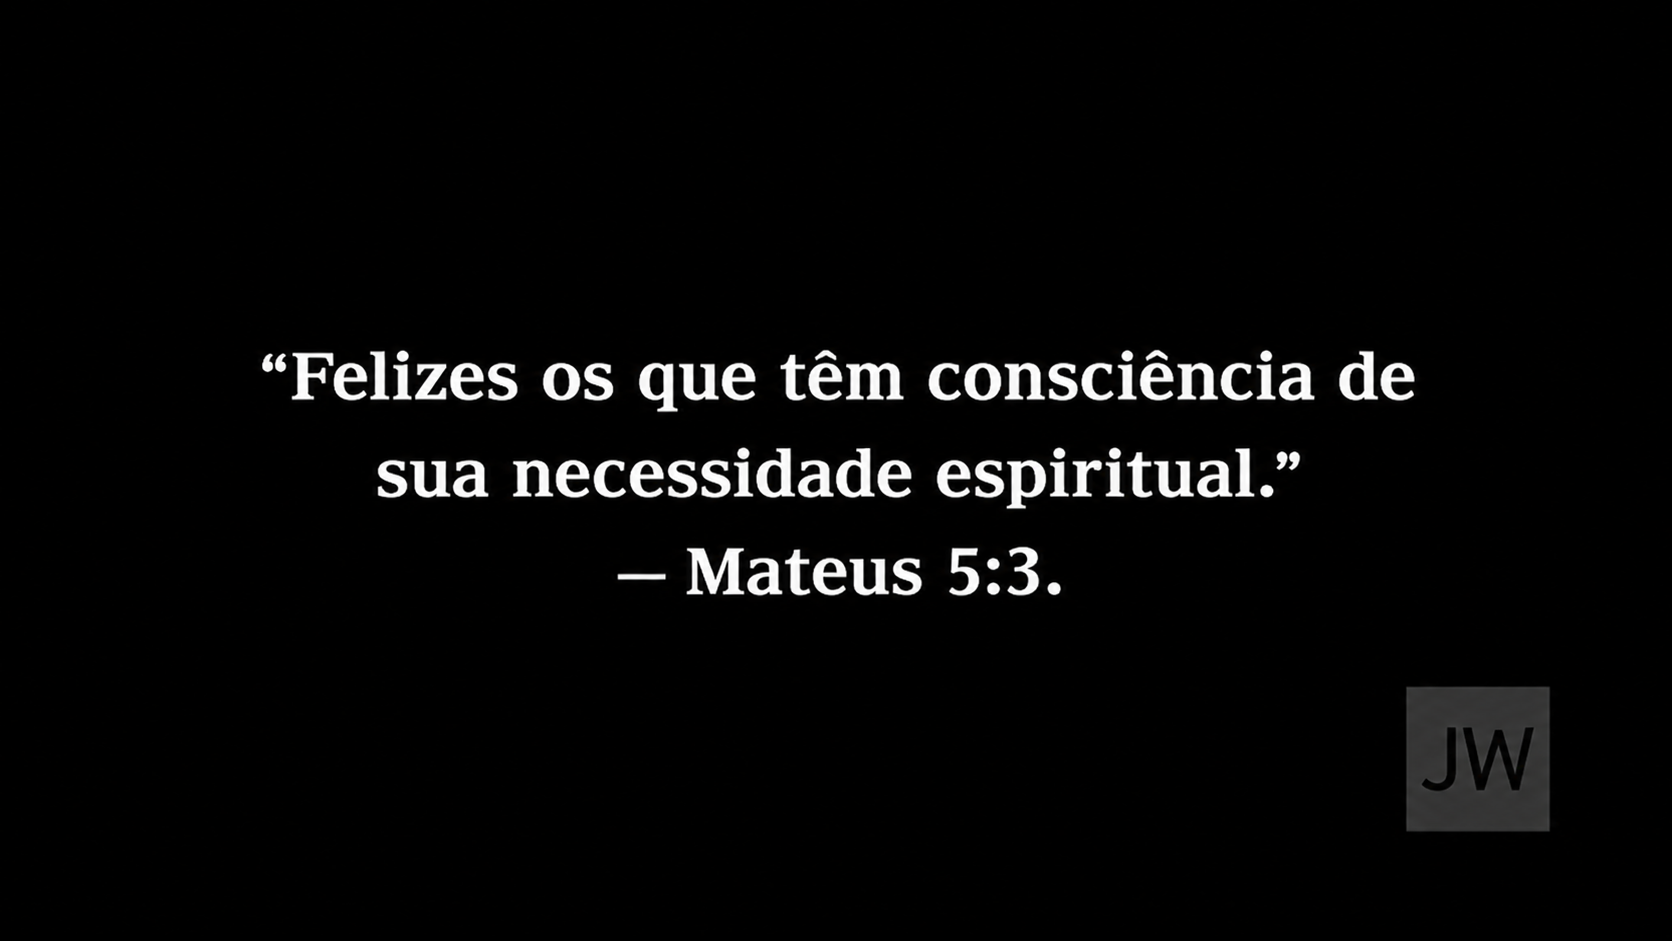
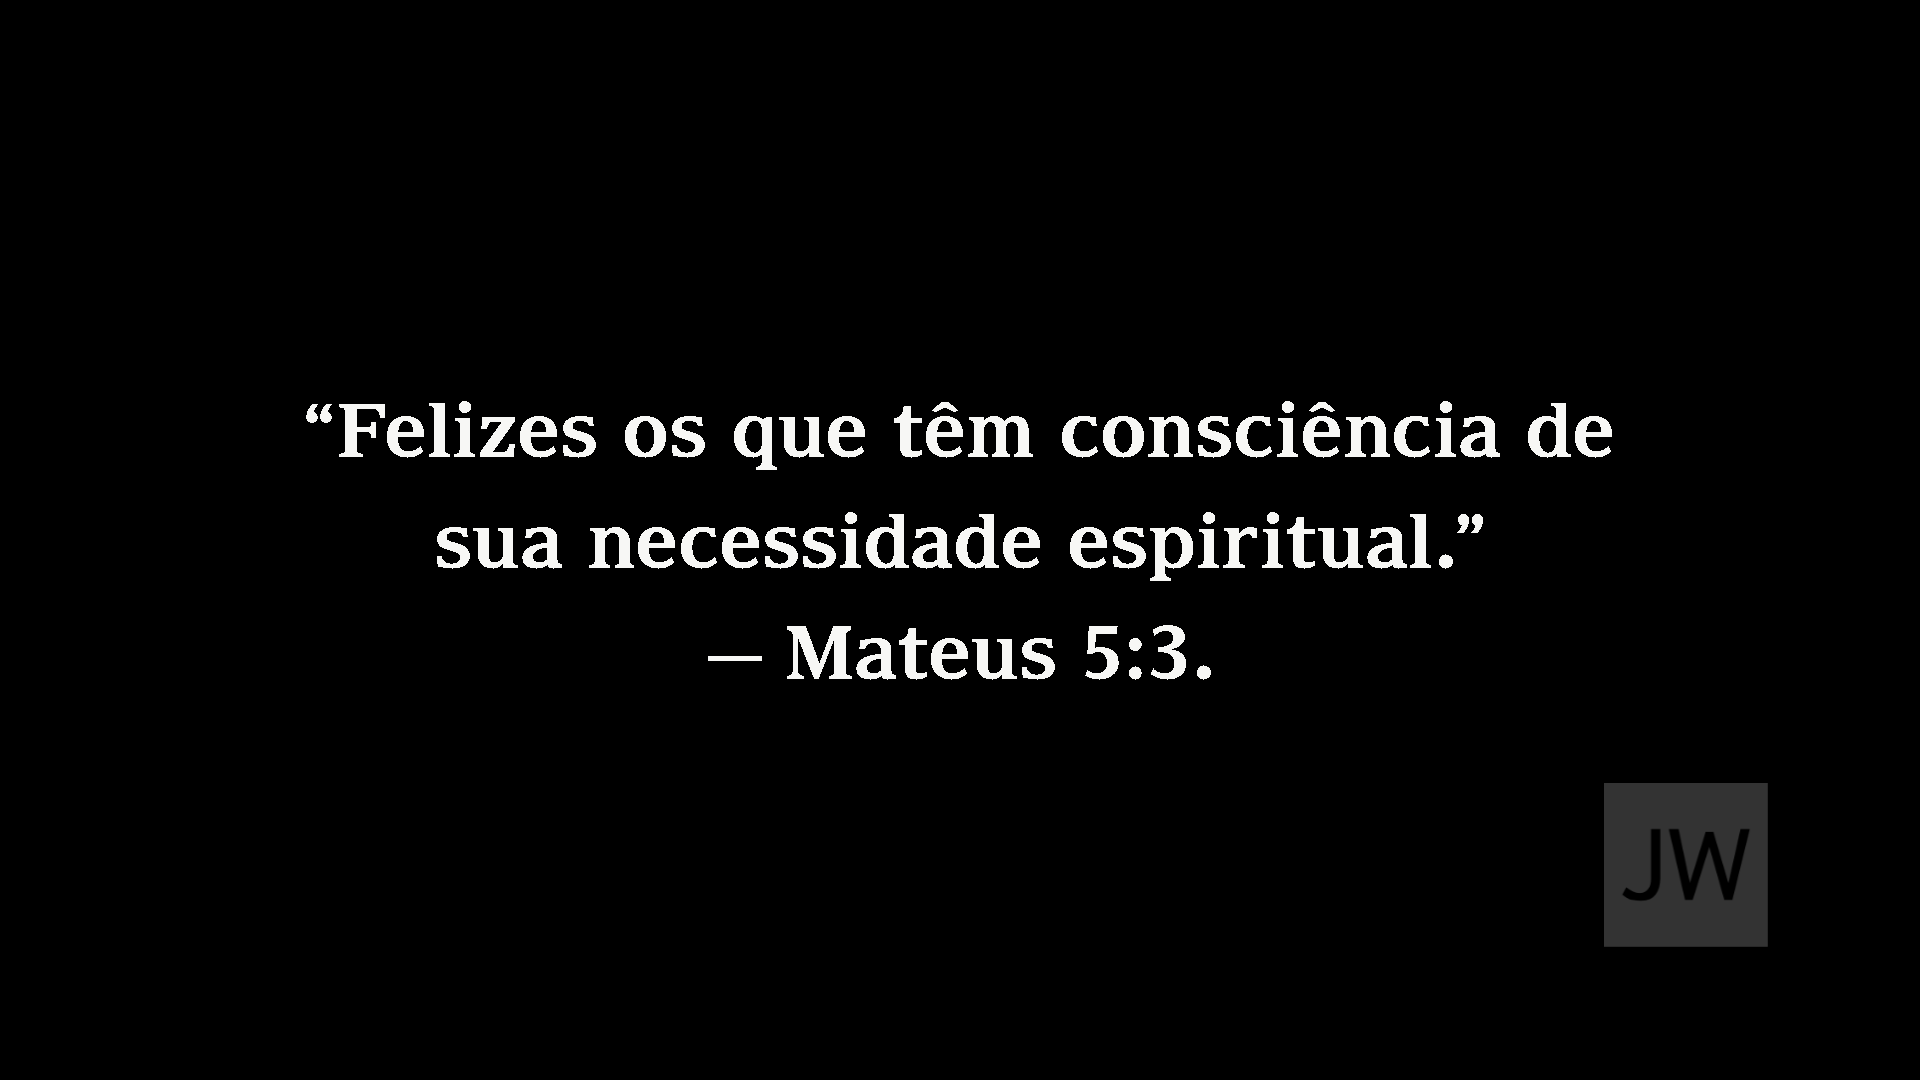
fix: improve timer stop behavior and display overlay handling

diff --git a/src-tauri/src/lib.rs b/src-tauri/src/lib.rs
@@ -1219,7 +1219,6 @@ async fn get_operator_message(state: tauri::State<'_, SharedState>) -> Result<St
 // FUNÇÕES DE SISTEMA
 
 async fn switch_to_jw_library_internal(app_handle: &tauri::AppHandle) -> Result<(), String> {
-    // Só esconde a janela display se o cronômetro NÃO estiver rodando
     let countdown_running = {
         if let Some(state) = app_handle.try_state::<SharedState>() {
             let state = state.read().await;
@@ -1231,7 +1230,7 @@ async fn switch_to_jw_library_internal(app_handle: &tauri::AppHandle) -> Result<
     
     if !countdown_running {
         if let Some(w) = app_handle.get_webview_window("display") {
-            w.set_always_on_top(false).ok();
+            // w.set_always_on_top(false).ok();
             w.hide().ok();
         }
         
@@ -1241,12 +1240,13 @@ async fn switch_to_jw_library_internal(app_handle: &tauri::AppHandle) -> Result<
                 "$wshell.AppActivate('JW Library');"
             ])
             .spawn().ok();
+        
+        app_handle.emit("switch-app", "jw").ok(); // ✅ Só emite "jw" se NÃO tem cronômetro
     } else {
-        // Se o cronômetro está rodando, mostra a janela display em vez de esconder
         show_display_window_internal(app_handle).await.ok();
+        app_handle.emit("switch-app", "sistema").ok(); // ✅ Emite "sistema" se tem cronômetro
     }
     
-    app_handle.emit("switch-app", "jw").ok();
     Ok(())
 }
 
@@ -1705,7 +1705,7 @@ async fn show_display_window_internal(app_handle: &tauri::AppHandle) -> Result<(
     if let Some(w) = app_handle.get_webview_window("display") {
         w.unminimize().map_err(|e| e.to_string())?; 
         w.show().map_err(|e| e.to_string())?;
-        w.set_always_on_top(true).map_err(|e| e.to_string())?; 
+        // w.set_always_on_top(true).map_err(|e| e.to_string())?; 
         w.set_fullscreen(true).map_err(|e| e.to_string())?;
         w.set_focus().map_err(|e| e.to_string())?; 
         return Ok(());
@@ -1714,7 +1714,7 @@ async fn show_display_window_internal(app_handle: &tauri::AppHandle) -> Result<(
         .title("Tela de Exibição")
         .inner_size(800.0, 600.0)
         .decorations(false)
-        .always_on_top(true)
+        // .always_on_top(true)
         .visible(false)
         .build()
         .map_err(|e| e.to_string())?;
@@ -1724,7 +1724,7 @@ async fn show_display_window_internal(app_handle: &tauri::AppHandle) -> Result<(
         window.set_position(tauri::PhysicalPosition::new(target.position().x, target.position().y)).map_err(|e| e.to_string())?;
         window.set_size(tauri::PhysicalSize::new(target.size().width, target.size().height)).map_err(|e| e.to_string())?;
     }
-    window.set_always_on_top(true).map_err(|e| e.to_string())?; 
+    // window.set_always_on_top(true).map_err(|e| e.to_string())?; 
     window.set_fullscreen(true).map_err(|e| e.to_string())?;
     window.show().map_err(|e| e.to_string())?; 
     window.set_focus().map_err(|e| e.to_string())?;
@@ -1820,12 +1820,23 @@ async fn stop_countdown(
     app_state.countdown.seconds_left = 0;
     app_state.countdown.target_time = None;
     app_state.countdown.label = String::new();
+    app_state.countdown.stopped_manually = true;
     save_state_to_disk(&app_state, &app_handle);
     
     app_handle.emit("countdown-stop", ()).map_err(|e| e.to_string())?;
     
-    drop(app_state);
-    switch_to_jw_library_internal(&app_handle).await?;
+    // Força ir para JW Library
+    if let Some(w) = app_handle.get_webview_window("display") {
+        w.set_always_on_top(false).ok();
+        w.hide().ok();
+    }
+    std::process::Command::new("powershell")
+        .args(&["-NoProfile", "-WindowStyle", "Hidden", "-Command", 
+            "$wshell = New-Object -ComObject WScript.Shell;",
+            "$wshell.AppActivate('JW Library');"
+        ])
+        .spawn().ok();
+    app_handle.emit("switch-app", "jw").ok();
     
     Ok(())
 }
@@ -1877,6 +1888,10 @@ fn check_and_start_countdown(app_state: &SharedState, app_handle: &tauri::AppHan
                         continue;
                     }
                 }
+                continue;
+            }
+
+            if app_state.countdown.stopped_manually {
                 continue;
             }
             
@@ -2098,6 +2113,7 @@ pub fn run() {
             state.current_slide_index = 0;
             state.is_blackout = true;
             state.countdown.running = false;
+            state.countdown.stopped_manually = false; 
             
             let shared_state: SharedState = Arc::new(RwLock::new(state)); // PRIMEIRO
             let clients = Arc::new(WsClients::new()); // PRIMEIRO

diff --git a/src-tauri/src/state.rs b/src-tauri/src/state.rs
@@ -94,6 +94,7 @@ pub struct CountdownState {
     pub target_time: Option<String>, // "HH:MM"
     pub seconds_left: u64,
     pub label: String,
+    pub stopped_manually: bool,
 }
 
 #[derive(Debug, Clone, Serialize, Deserialize)]
@@ -131,6 +132,7 @@ impl AppState {
                 target_time: None,
                 seconds_left: 0,
                 label: String::new(),
+                stopped_manually: false,
             },
         }
     }